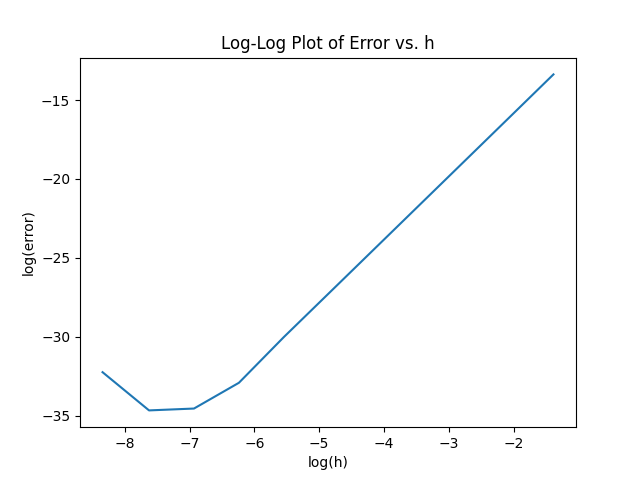
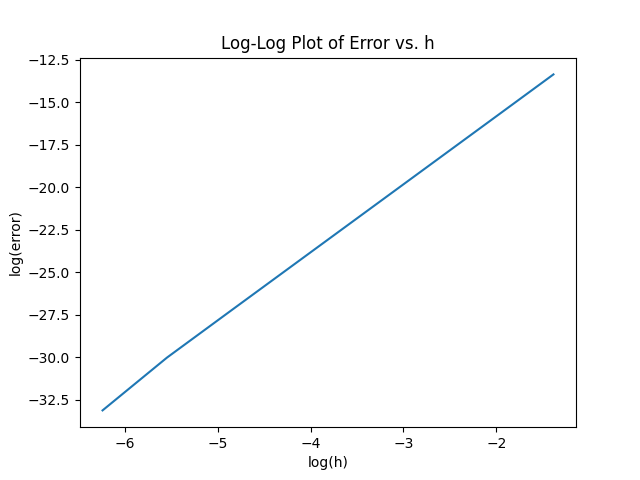
test

diff --git a/hw5/task3.py b/hw5/task3.py
@@ -1,1 +1,37 @@
-# compare explicit and implicit Euler methods
+# setting up importing code from other homework directories
+import sys
+import os
+current = os.path.dirname(os.path.realpath(__file__))
+parent = os.path.dirname(current)
+sys.path.append(parent)
+
+from hw4.task5 import explicitEulerLogistic
+from task1 import implicitEulerMethod
+from task2 import analyticSolution
+from matplotlib import pyplot as plt
+
+tests = [
+  [0.2, 0.0005, 10.0, 50, 2, "Test 1 (n=50, h=2.0)", "task3-test1-a.png"],
+  [0.2, 0.0005, 10.0, 200, 0.5, "Test 1 (n=200, h=0.5)", "task3-test1-b.png"],
+  [0.01, 0.0005, 10.0, 50, 15.0, "Test 2 (n=50, h=15.0)", "task3-test2-a.png"],
+  [0.01, 0.0005, 10.0, 200, 3.75, "Test 2 (n=200, h=3.75)", "task3-test2-b.png"],
+  [2.0, 0.0005, 10.0, 50, 0.2, "Test 3 (n=50, n=0.2)", "task3-test3-a.png"],
+  [2.0, 0.0005, 10.0, 200, 0.05, "Test 3 (n=200, 0.05)", "task3-test3-b.png"],
+]
+
+for test in tests:
+  tImplicit, pImplicit = implicitEulerMethod(test[0], test[1], test[2], test[3], test[4])
+  tExplicit, pExplicit = explicitEulerLogistic(test[0], test[1], test[2], test[3], test[4])
+  tAnalytic, pAanalytic = analyticSolution(test[0], test[1], test[2], test[3], test[4])
+
+  plt.title(test[5])
+  plt.xlabel('t')
+  plt.ylabel('P(t)')
+
+  plt.plot(tImplicit, pImplicit, 'r', label='Implicit Euler')
+  plt.plot(tExplicit, pExplicit, 'g', label='Explicit Euler')
+  plt.plot(tAnalytic, pAanalytic, 'b', label='Analytic')
+
+  plt.legend(loc="lower right")
+  plt.savefig(test[6])
+  plt.clf()

diff --git a/hw5/task1.py b/hw5/task1.py
@@ -1,13 +1,12 @@
-import matplotlib.pyplot as plt
+# setting up importing code from other homework directories
+import sys
+import os
+current = os.path.dirname(os.path.realpath(__file__))
+parent = os.path.dirname(current)
+sys.path.append(parent)
 
-def newtons(f, fPrime, x, maxIterations, tolerance):
-  i = 0
-  y = 10.0 * tolerance
-  while (abs(y) > tolerance and i < maxIterations):
-    y = f(x) / fPrime(x)
-    x = x - y
-    i += 1
-  return x
+from hw2.newtons import newtons
+import matplotlib.pyplot as plt
 
 def implicitEulerMethod(alpha, beta, p0, n=100, h=1.0):
   """Solve the logistic equation using the implicit Euler method."""
@@ -22,7 +21,7 @@ def implicitEulerMethod(alpha, beta, p0, n=100, h=1.0):
       return p - ptable[i - 1] - h * (alpha * p - beta * p * p)
     pval = newtons(f, fPrime, ptable[i - 1], 100, 1e-6)
     ptable[i] = pval
-  return [[i*h, ptable[i]] for i in range(n)]
+  return zip(*[[i*h, ptable[i]] for i in range(n)])
   
 tests = [
   [0.2, 0.0005, 10.0, 75, 1.0, "Test 1", "task1-test1.png"],
@@ -31,11 +30,10 @@ tests = [
 ]
 
 for test in tests:
-  tvals, pvals = zip(*implicitEulerMethod(test[0], test[1], test[2], test[3], test[4]))
+  tvals, pvals = implicitEulerMethod(test[0], test[1], test[2], test[3], test[4])
   plt.title(test[5])
   plt.xlabel('t')
   plt.ylabel('P(t)')
   plt.plot(tvals, pvals)
   plt.savefig(test[6])
   plt.clf()
-

diff --git a/hw5/task5.py b/hw5/task5.py
@@ -14,11 +14,11 @@ def simpsonsRule(f, a, b, n):
 def calculateNFromH(a, b, h):
   return (b - a) / h
 
-hvals = [1/4, 1/8, 1/16, 1/32, 1/64, 1/128, 1/256, 1/512, 1/1024, 1/2048, 1/4196]
+hvals = [1/4, 1/8, 1/16, 1/32, 1/64, 1/128, 1/256, 1/512]
 nvals = [int(calculateNFromH(0, 1, h)) for h in hvals]
 
-# I calculated the actual value of the integral using Wolfram Alpha
-actual = 0.6498803300786573037276521829129935239240253152760926685227030955
+# actual = 0.6498803300786573037276521829129935239240253152760926685227030955 # from Wolfram Alpha
+actual = 0.6498803300786583 # calculated using h=1/1024
 
 def f(x):
   return pow(e, -x * x)
@@ -32,3 +32,4 @@ plt.xlabel("log(h)")
 plt.ylabel("log(error)")
 plt.savefig("task5.png")
 plt.show()
+plt.clf()

diff --git a/hw5/task2.py b/hw5/task2.py
@@ -1,6 +1,6 @@
-# analytic solution to the logistic equation
-from hw4.task5 import explicitEulerLogistic
-from task1 import implicitEulerMethod
+from math import exp
 
-
-
+def analyticSolution(alpha, beta, p0, n=100, h=1.0):
+  """Solve the logistic equation using the analytic solution."""
+  c = alpha / p0 - beta
+  return zip(*[[i*h, alpha / (c * exp(-alpha * i*h) + beta)] for i in range(n)])

diff --git a/hw5/task4.py b/hw5/task4.py
@@ -7,10 +7,10 @@ def trapezoidRule(f, a, b, n):
     sum += f(a + i * h)
   return sum * h
 
-tests = [2,4,8,16, 100000]
+tests = [2, 4, 8, 16, 1000]
 
 def f(x):
   return pow(e, -x * x)
 
-for test in tests:
-  print(f"n={test}; approx={trapezoidRule(f, 0, pi / 4, test)}")
+for n in tests:
+  print(f"n={n}; approx={trapezoidRule(f, 0, pi / 4, n)}")

diff --git a/hw5/README.md b/hw5/README.md
@@ -18,8 +18,10 @@ def implicitEulerMethod(alpha, beta, p0, n=100, h=1.0):
       return p - ptable[i - 1] - h * (alpha * p - beta * p * p)
     pval = newtons(f, fPrime, ptable[i - 1], 100, 1e-6)
     ptable[i] = pval
-  return [[i*h, ptable[i]] for i in range(n)]
+  return zip(*[[i*h, ptable[i]] for i in range(n)])
 ```
+
+This function takes as input the parameters alpha, beta, p0, n, and h. It returns two lists, the first one containing the values of $t$, and the second one containing the values of $P(t)$. The function uses the implicit Euler method to solve the logistics equation. The function uses Newton's method to solve the rootfinding problem that arises during the implicit Euler algorithm. 
 
 I used the following code to test and plot the results, and save the plots as individual files.
 
@@ -31,7 +33,7 @@ tests = [
 ]
 
 for test in tests:
-  tvals, pvals = zip(*implicitEulerMethod(test[0], test[1], test[2], test[3], test[4]))
+  tvals, pvals = implicitEulerMethod(test[0], test[1], test[2], test[3], test[4])
   plt.title(test[5])
   plt.xlabel('t')
   plt.ylabel('P(t)')
@@ -40,17 +42,17 @@ for test in tests:
   plt.clf()
 ```
 
-These are my results:
+I varied the values of $n$ and $h$ to fit the curves in a window where we could see them reach their carrying capacity. These are my results:
 
-**Test 1.** I used the following parameters: alpha = 0.2, beta = 0.0005, p0 = 10.0, n = 75, h = 1.0. This is the plot:
+**Test 1.** I used the following parameters: $\alpha = 0.2$, $\beta = 0.0005$, $P_0 = 10.0$, $n = 75$, $h = 1.0$. This is the plot:
 
 ![Test 1](task1-test1.png)
 
-**Test 2.** I used the following parameters: alpha = 0.01, beta = 0.0005, p0 = 10.0, n = 350, h = 2.0. This is the plot:
+**Test 2.** I used the following parameters: $\alpha = 0.01$, $\beta = 0.0005$, $P_0 = 10.0$, $n = 350$, $h = 2.0$. This is the plot:
 
 ![Test 2](task1-test2.png)
 
-**Test 3.** I used the following parameters: alpha = 2.0, beta = 0.0005, p0 = 10.0, n = 75, h = 0.1. This is the plot:
+**Test 3.** I used the following parameters: $\alpha = 2.0$, $\beta = 0.0005$, $P_0 = 10.0$, $n = 75$, $h = 0.1$. This is the plot:
 
 ![Test 3](task1-test3.png)
 
@@ -72,14 +74,14 @@ dt &= \frac{dP}{\alpha P - \beta P^2} \\
 t+C &= \int \frac{1}{P^2(\frac {\alpha}{P}  - \beta)}\;dP
 \end{align*}
 $$
-By using u-substitution, we are able to solve this integral.
+By using $u$-substitution, we are able to solve this integral.
 $$
 \begin{align*}
 u &= \frac{\alpha}{P} - \beta \\
 du &=-\alpha P^{-2}\;dP
 \end{align*}
 $$
-Substituting this into the integral, we get:
+Substituting $u$ and $du$ into the integral, we get:
 $$
 \begin{align*}
 \int \frac{1}{P^2(\frac {\alpha}{P}  - \beta)}\;dP &= \int -\frac{1}{\alpha u}\;du \\
@@ -94,10 +96,107 @@ t &= -\frac{\ln|\frac{\alpha}{P} - \beta |}{\alpha} + C
 \end{align*}
 $$
 
+Then, we solve for $t$:
+$$
+\begin{align*}
+-\alpha t+c_1 &= \ln |\frac{\alpha}{P} - \beta | \\
+e^{-\alpha t+c_1} &=\frac{\alpha}{P} - \beta \\
+c_2e^{-\alpha t}+\beta &=\frac{\alpha}{P} \\
+P &= \frac{\alpha}{c_2e^{-\alpha t}+\beta}
+\end{align*}
+$$
+We can also solve for $c_2$ by knowing that $P(0)=P_0$.
+$$
+\begin{align*}
+P(0) = P_0 &= \frac{\alpha}{c_2e^{-\alpha (0)}+\beta} \\
+P_0 &= \frac{\alpha}{c_2 + \beta} \\
+c_2 &= \frac{\alpha}{P_0}-\beta
+\end{align*}
+$$
+So, the final analytic solution is $P(t, \alpha, \beta, P_0) = \frac{\alpha}{(\frac{\alpha}{P_0}-\beta)e^{-\alpha t}+\beta}$.
+
+I was able to implement this analytic solution in Python using the following code:
+
+```python
+from math import exp
+
+def analyticSolution(alpha, beta, p0, n=100, h=1.0):
+  """Solve the logistic equation using the analytic solution."""
+  c = alpha / p0 - beta
+  return zip(*[[i*h, alpha / (c * exp(-alpha * i*h) + beta)] for i in range(n)])
+```
+
+This method returns two lists, the first one containing the values of $t$, and the second one containing the values of $P(t)$.
 
 ## Task 3
 
+In this task, I used the same test cases as in Task 1. I used the following code to test and plot the results, and save the plots as individual files.
 
+```python
+tests = [
+  [0.2, 0.0005, 10.0, 50, 2, "Test 1 (n=50, h=2.0)", "task3-test1-a.png"],
+  [0.2, 0.0005, 10.0, 200, 0.5, "Test 1 (n=200, h=0.5)", "task3-test1-b.png"],
+  [0.01, 0.0005, 10.0, 50, 15.0, "Test 2 (n=50, h=15.0)", "task3-test2-a.png"],
+  [0.01, 0.0005, 10.0, 200, 3.75, "Test 2 (n=200, h=3.75)", "task3-test2-b.png"],
+  [2.0, 0.0005, 10.0, 50, 0.2, "Test 3 (n=50, n=0.2)", "task3-test3-a.png"],
+  [2.0, 0.0005, 10.0, 200, 0.05, "Test 3 (n=200, 0.05)", "task3-test3-b.png"],
+]
+
+for test in tests:
+  tImplicit, pImplicit = implicitEulerMethod(test[0], test[1], test[2], test[3], test[4])
+  tExplicit, pExplicit = explicitEulerLogistic(test[0], test[1], test[2], test[3], test[4])
+  tAnalytic, pAanalytic = analyticSolution(test[0], test[1], test[2], test[3], test[4])
+
+  plt.title(test[5])
+  plt.xlabel('t')
+  plt.ylabel('P(t)')
+
+  plt.plot(tImplicit, pImplicit, 'r', label='Implicit Euler')
+  plt.plot(tExplicit, pExplicit, 'g', label='Explicit Euler')
+  plt.plot(tAnalytic, pAanalytic, 'b', label='Analytic')
+
+  plt.legend(loc="lower right")
+  plt.savefig(test[6])
+  plt.clf()
+```
+
+For each test, I plotted the results of the implicit Euler method, the explicit Euler method, and the analytic solution. I also saved the plots as individual files. I used two different values for $n$ for each test case, $n=50$ and $n=200$. I varied the value of $h$ to fit the plot in a window that would show the entire relevant portion of the graph, and to display the same view of the graph with the different values of $n$. Below are the plots for each test case.
+
+**Test 1.** I used the following parameters: $\alpha = 0.2$, $\beta = 0.0005$, $P_0 = 10.0$.
+
+With $n=50$ and $h=2.0$:
+
+<img src="task3-test1-a.png" width="400px" />
+
+
+
+![Test 1A](task3-test1-a.png)
+
+With $n=200$ and $h=0.5$:
+
+![Test 1B](task3-test1-b.png)
+
+**Test 2.** I used the following parameters: $\alpha = 0.01$, $\beta = 0.0005$, $P_0 = 10.0$. This is the plot:
+
+With $n=50$ and $h=15.0$:
+
+![Test 2A](task3-test2-a.png)
+
+With $n=200$ and $h=3.75$:
+
+![Test 2B](task3-test2-b.png)
+
+**Test 3.** I used the following parameters: $\alpha = 2.0$, $\beta = 0.0005$, $P_0 = 10.0$. This is the plot:
+
+With $n=50$ and $h=0.2$:
+
+![Test 3A](task3-test3-a.png)
+
+With $n=200$ and $h=0.05$:
+
+![Test 3B](task3-test3-b.png)
+
+As seen from the graphs, there is a little deviation from the analytic solution for both the implicit and explicit methods of approximation. This is expected, since the analytic solution is exact, while the numerical methods are approximations. The deviation was larger when the value of $h$ was larger, and smaller when the value of $h$ was smaller. This is also expected, since the smaller the value of $h$, the more accurate the approximation.
 
 ## Task 4
 
@@ -112,7 +211,9 @@ def trapezoidRule(f, a, b, n):
   return sum * h
 ```
 
-I tested the trapezoid rule by using the following code:
+This function takes as input a function $f$, the interval $[a, b]$, and the number of subintervals $n$. It returns the approximation of the integral of $f$ over the interval $[a, b]$ using the composite trapezoid rule.
+
+I tested the function by using the following code:
 
 ```python
 from math import e, pow, pi
@@ -122,8 +223,8 @@ tests = [2, 4, 8, 16, 100000]
 def f(x):
   return pow(e, -x * x)
 
-for test in tests:
-  print(f"n={test}; approx={trapezoidRule(f, 0, pi / 4, test)}")
+for n in tests:
+  print(f"n={n}; approx={trapezoidRule(f, 0, pi / 4, n)}")
 ```
 
 The output of the test code is:
@@ -133,7 +234,7 @@ n=2; approx=0.6388862805734845
 n=4; approx=0.6471507696813964
 n=8; approx=0.6491991053630145
 n=16; approx=0.6497100964398593
-n=10000; approx=0.6498803296429212
+n=1000; approx=0.6498802865050275
 ```
 
 It appears that the sequence is converging to a value of approximately `0.64988`. This is the correct value of the integral of `e^(-x^2)` from `0` to `pi / 4`.
@@ -152,6 +253,8 @@ def simpsonsRule(f, a, b, n):
     x += h
   return sum * h / 6
 ```
+
+The function takes as input a function $f$, the interval $[a, b]$, and the number of subintervals $n$. It returns the approximation of the integral of $f$ over the interval $[a, b]$ using the composite Simpson's rule.
 
 I tested my implementation with the following code:
 
